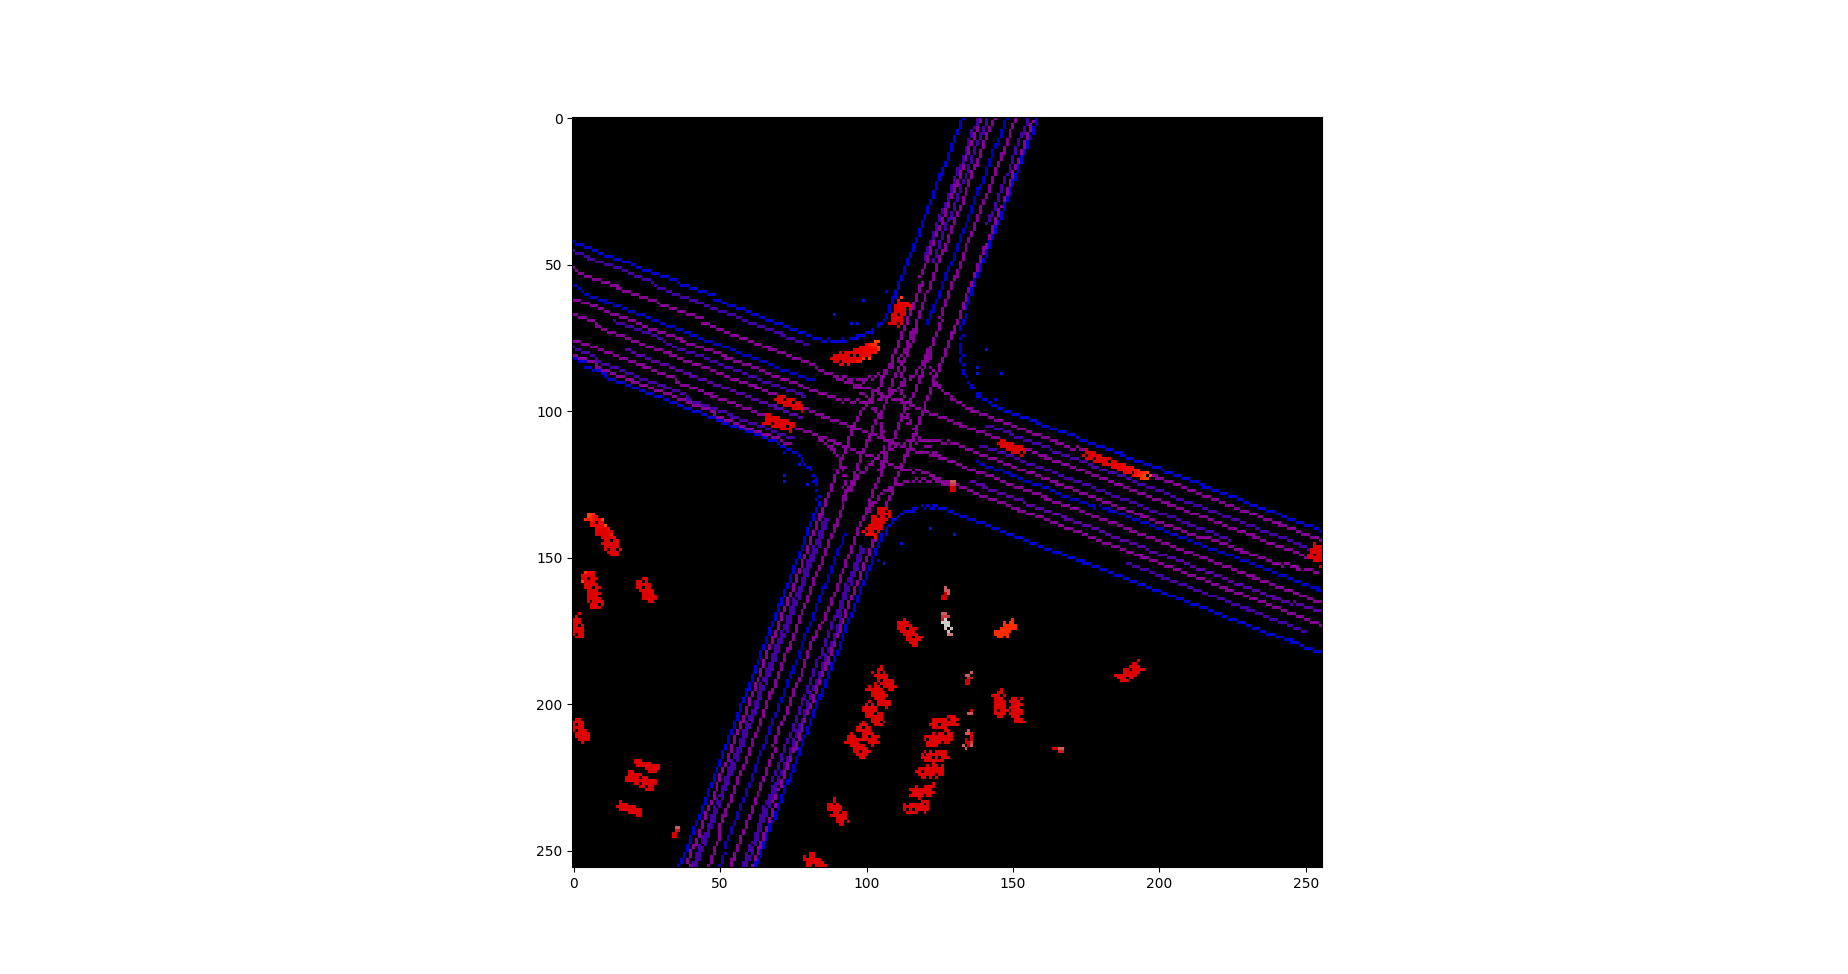
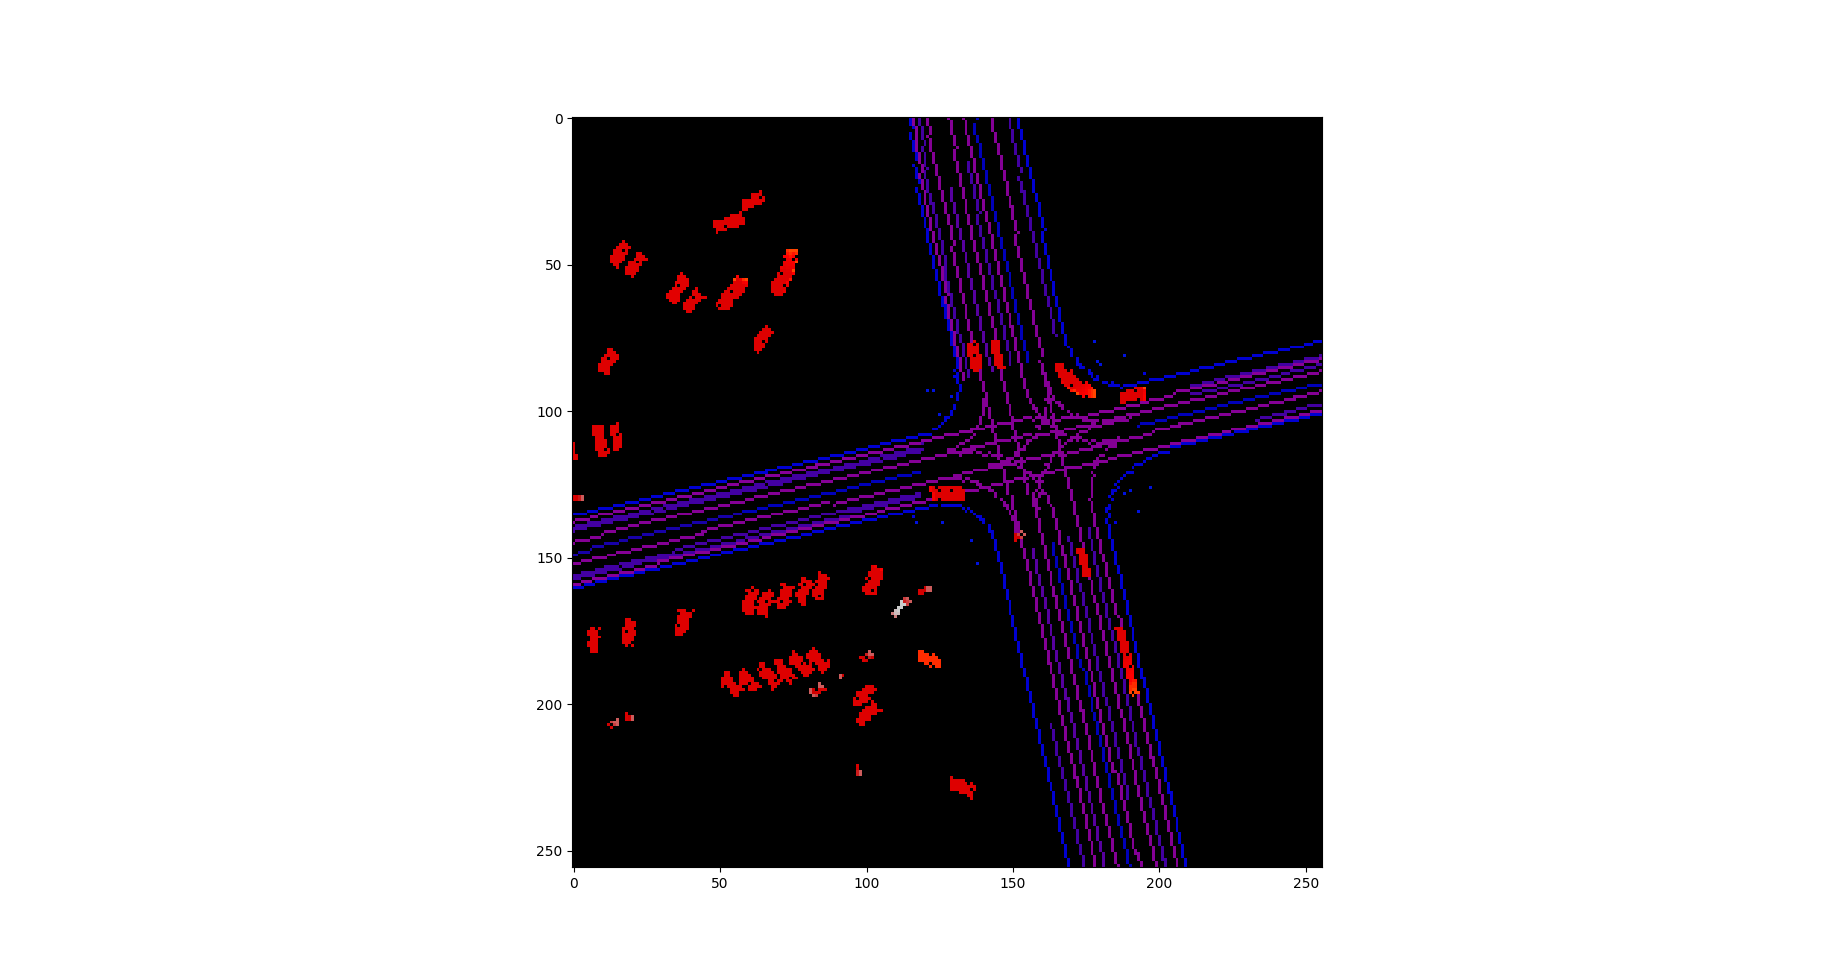
plotted past image correctly

diff --git a/ConvertSingleScenario.py b/ConvertSingleScenario.py
@@ -6,6 +6,7 @@ import math as m
 import os
 import uuid
 import time
+import sys
 
 from matplotlib import cm
 import matplotlib.animation as animation
@@ -155,7 +156,7 @@ def addRoadGraphSampleToGrid(xyz, sample_type):
     for e in elements:
         grid[int(e[0])][int(e[1])] = sample_type
 
-def evaluatePast(scenario):
+def evaluatePast(scenario, ref):
     if ego_vehicle.init:
         i = 0
         for valid in scenario.get_parsed_data()['state/past/valid'].numpy():    
@@ -173,10 +174,16 @@ def evaluatePast(scenario):
                 j += 1
             i += 1
     else:
-        evaluateFutureEgoPos(scenario)
-        evaluatePast(scenario)
+        if ref == "future":
+            evaluateFutureEgoPos(scenario)
+        elif ref == "past":
+            evaluatePastEgoPos(scenario)
+        else:
+            sys.exit('Wrong Time Reference Provided! Exiting!')
+        
+        evaluatePast(scenario, ref)
 
-def evaluateFuture(scenario):
+def evaluateFuture(scenario, ref):
     if ego_vehicle.init:
         i = 0
         for valid in scenario.get_parsed_data()['state/future/valid'].numpy():    
@@ -194,8 +201,14 @@ def evaluateFuture(scenario):
                 j += 1
             i += 1
     else:
-        evaluateFutureEgoPos(scenario)
-        evaluateFuture(scenario)
+        if ref == "future":
+            evaluateFutureEgoPos(scenario)
+        elif ref == "past":
+            evaluatePastEgoPos(scenario)
+        else:
+            sys.exit('Wrong Time Reference Provided! Exiting!')
+
+        evaluateFuture(scenario, ref)
 
 def evaluateFutureEgoPos(scenario):
     initialized_ego_vehicle = False
@@ -213,7 +226,23 @@ def evaluateFutureEgoPos(scenario):
         i += 1
     ego_vehicle.init = initialized_ego_vehicle
 
-def evaluateMap(scenario):
+def evaluatePastEgoPos(scenario):
+    initialized_ego_vehicle = False
+    i = 0
+    for valid in scenario.get_parsed_data()['state/past/valid'].numpy():
+        j = 0
+        for vI in valid:
+            if vI == 1:
+                if scenario.get_parsed_data()['state/is_sdc'].numpy()[i] == 1:
+                    ego_vehicle.global_x = scenario.get_parsed_data()['state/past/x'].numpy()[i][j]
+                    ego_vehicle.global_y = scenario.get_parsed_data()['state/past/y'].numpy()[i][j]
+                    ego_vehicle.yaw = scenario.get_parsed_data()['state/past/bbox_yaw'].numpy()[i][j]
+                    initialized_ego_vehicle = True
+            j += 1
+        i += 1
+    ego_vehicle.init = initialized_ego_vehicle
+
+def evaluateMap(scenario, ref):
     if ego_vehicle.init:
         i = 0
         for valid in scenario.get_parsed_data()['roadgraph_samples/valid'].numpy():   
@@ -225,8 +254,14 @@ def evaluateMap(scenario):
                                         )
             i += 1
     else:
-        evaluateFutureEgoPos(scenario)
-        evaluateMap(scenario)
+        if ref == "future":
+            evaluateFutureEgoPos(scenario)
+        elif ref == "past":
+            evaluatePastEgoPos(scenario)
+        else:
+            sys.exit('Wrong Time Reference Provided! Exiting!')
+        
+        evaluateMap(scenario, ref)
 
 def evaluateTafficLightsPast(scenario):
     pass
@@ -256,21 +291,12 @@ def evaluateTafficLightsFuture(scenario):
     #     evaluateFuture(scenario)
     pass
 
-def evaluateAll(scenario):
+def evaluateAll(scenario, ref):
     start_time = time.time()
-    evaluateFutureEgoPos(scenario)
-    print("--- Ego Pos time:    %s s ---" % (time.time() - start_time))
-    start_time = time.time()
-    evaluateMap(scenario)
+    evaluateMap(scenario, ref)
     print("--- Map time:        %s s ---" % (time.time() - start_time))
     start_time = time.time()
-    evaluateTafficLightsPast(scenario)
-    print("--- TL Past time:    %s s ---" % (time.time() - start_time))
-    start_time = time.time()
-    evaluateTafficLightsFuture(scenario)
-    print("--- TL Future time:  %s s ---" % (time.time() - start_time))
-    start_time = time.time()
-    evaluatePast(scenario)
+    evaluatePast(scenario, ref)
     print("--- Past time:       %s s ---" % (time.time() - start_time))
     # start_time = time.time()
     # evaluateFuture(scenario)
@@ -283,8 +309,9 @@ def main():
     scenario = Scenario(data)
     print("Scenario ID: " + scenario.get_scenario_id())
     
+    ref = "past"
     start_time = time.time()
-    evaluateAll(scenario)
+    evaluateAll(scenario, ref)
     print("--- Overall time:    %s s ---" % (time.time() - start_time))
 
     plt.imshow(grid, cmap='nipy_spectral', interpolation='none')
